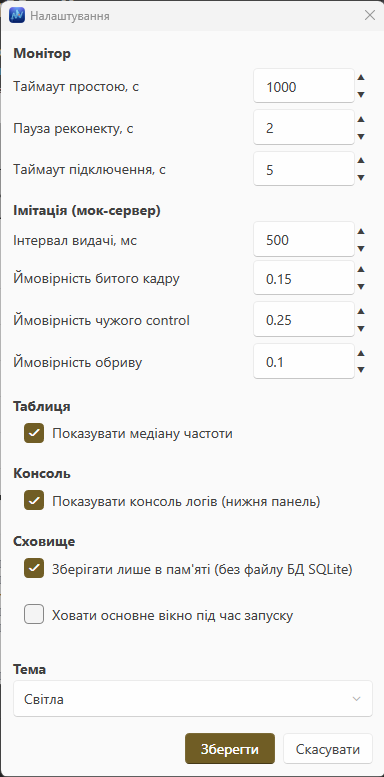
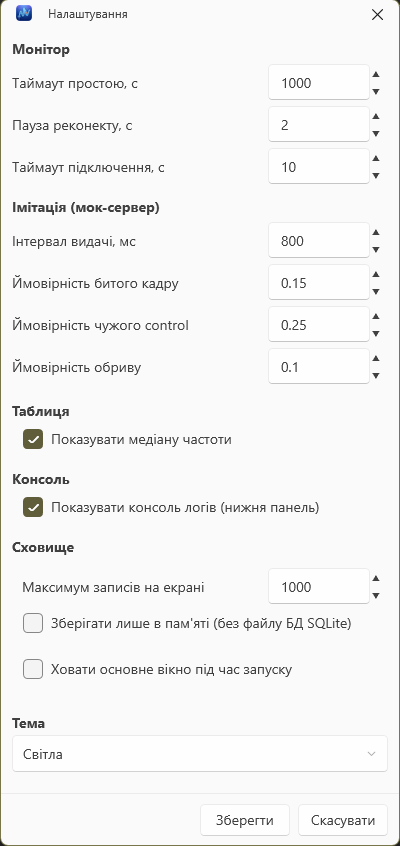
Актуалізовано опис та зображення

diff --git a/NetSdrMonitor.Desktop/Features/Settings/SettingsWindow.xaml b/NetSdrMonitor.Desktop/Features/Settings/SettingsWindow.xaml
@@ -116,7 +116,7 @@
                         <ColumnDefinition Width="*" />
                         <ColumnDefinition Width="120" />
                     </Grid.ColumnDefinitions>
-                    <TextBlock Grid.Column="0" Text="Максимум записів" VerticalAlignment="Center" Margin="0,3"
+                    <TextBlock Grid.Column="0" Text="Максимум записів на екрані" VerticalAlignment="Center" Margin="0,3"
                                ToolTip="Скільки записів тримати на екрані. У режимі БД пошук за діапазоном дат показує всі записи попри цю межу." />
                     <ctrl:NumericSpinner Grid.Column="1" Margin="0,3" IntegerOnly="True"
                                          Step="100" Minimum="100" Value="{Binding MaxUiRecords}" />

diff --git a/README.md b/README.md
@@ -29,13 +29,22 @@
 ## Можливості
 
 - **Прийом і агрегація** потоку сигналів у записи; частота - за **медіаною** (або за першим сигналом).
-- **Таблиця** з фільтрацією (пошук по всіх колонках, поріг SNR і кількості), сортуванням по колонках,
-  **перетягуванням і зміною ширини колонок** - порядок і ширина зберігаються між запусками.
+- **Таблиця** записів:
+  - **фільтри-пороги «≥»**: медіана/частота, смуга, SNR, кількість сигналів, **час доби** (випадний
+    `TimePicker`), а також **діапазон дат** (з / по + кнопка «Сьогодні»); «Скинути фільтр» очищає все;
+  - **подвійне зв'язане сортування за датою + часом** (нові зверху за замовчуванням, стрілки на обох
+    колонках) і звичайне сортування за рештою колонок;
+  - **перетягування і зміна ширини колонок** - порядок і ширина зберігаються між запусками;
+  - **обмеження кількості записів на екрані** (налаштування, крок 100): у пам'яті - жорстка межа зі
+    скиданням найстаріших, у режимі БД - розмір стартового «хвоста»; пошук за діапазоном дат показує
+    **всі** записи проміжку, попри межу.
 - **Деталізація запису** (ПКМ → «Показати сигнали») - усі детекції, що увійшли в медіану.
 - **Нижня консоль логів** із роздільником (висота запам'ятовується); вмикається в налаштуваннях.
 - **Сховище** записів: в пам'яті або файлове **SQLite** (перемикається галочкою).
 - **Стійкість лінії**: авто-реконект із backoff, idle-таймаут, обробка битих кадрів і NAK.
 - **Системний трей**: тихий старт, налаштування таймаутів і «хаосу» мок-сервера.
+- **Вікна й тема**: розмір і позиція вікон запам'ятовуються; тема світла / темна / синхронізація з ОС;
+  коректний масштаб на мультимоніторі (Per-Monitor V2).
 
 ---
 